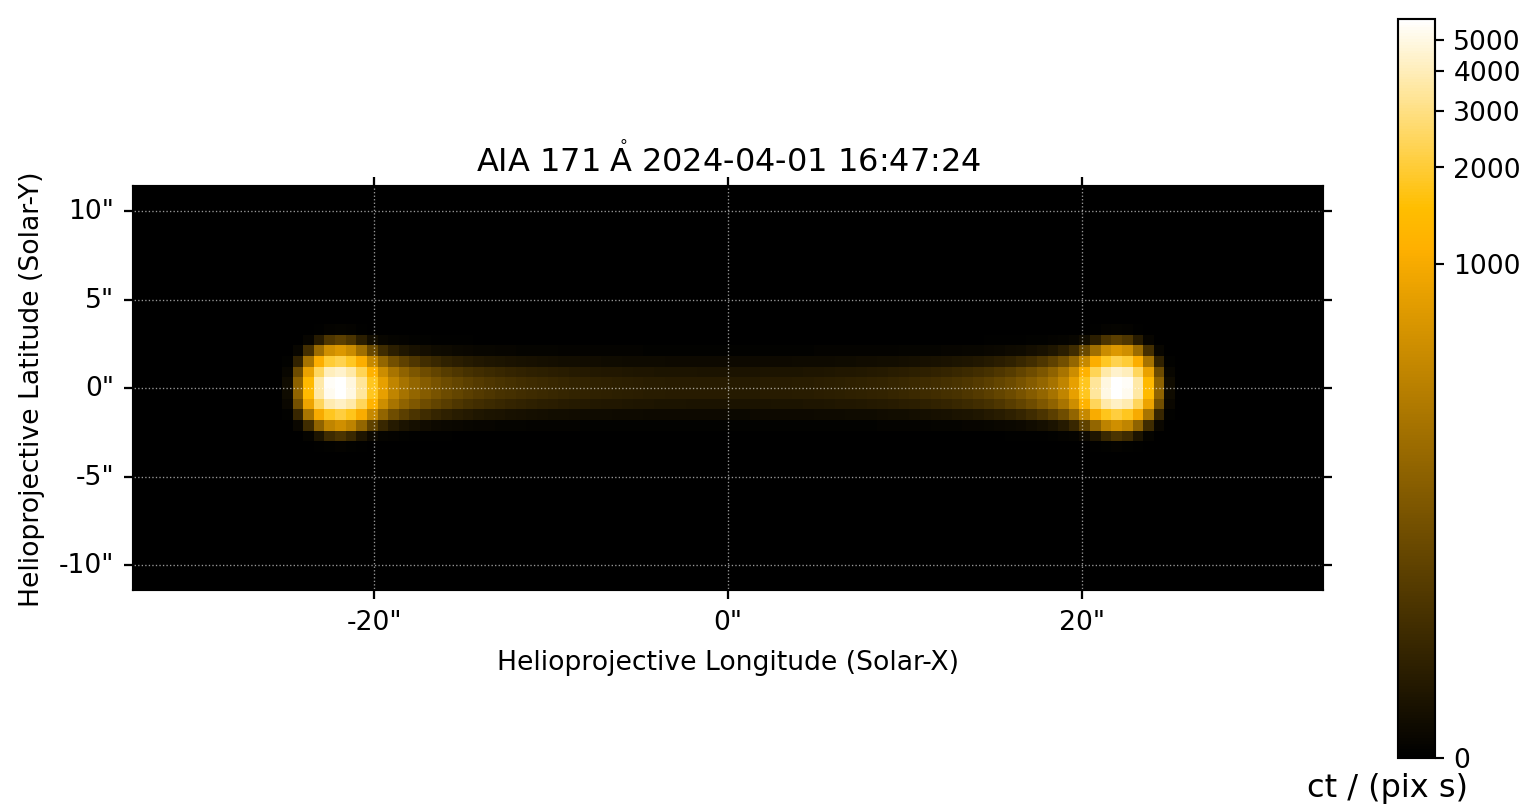
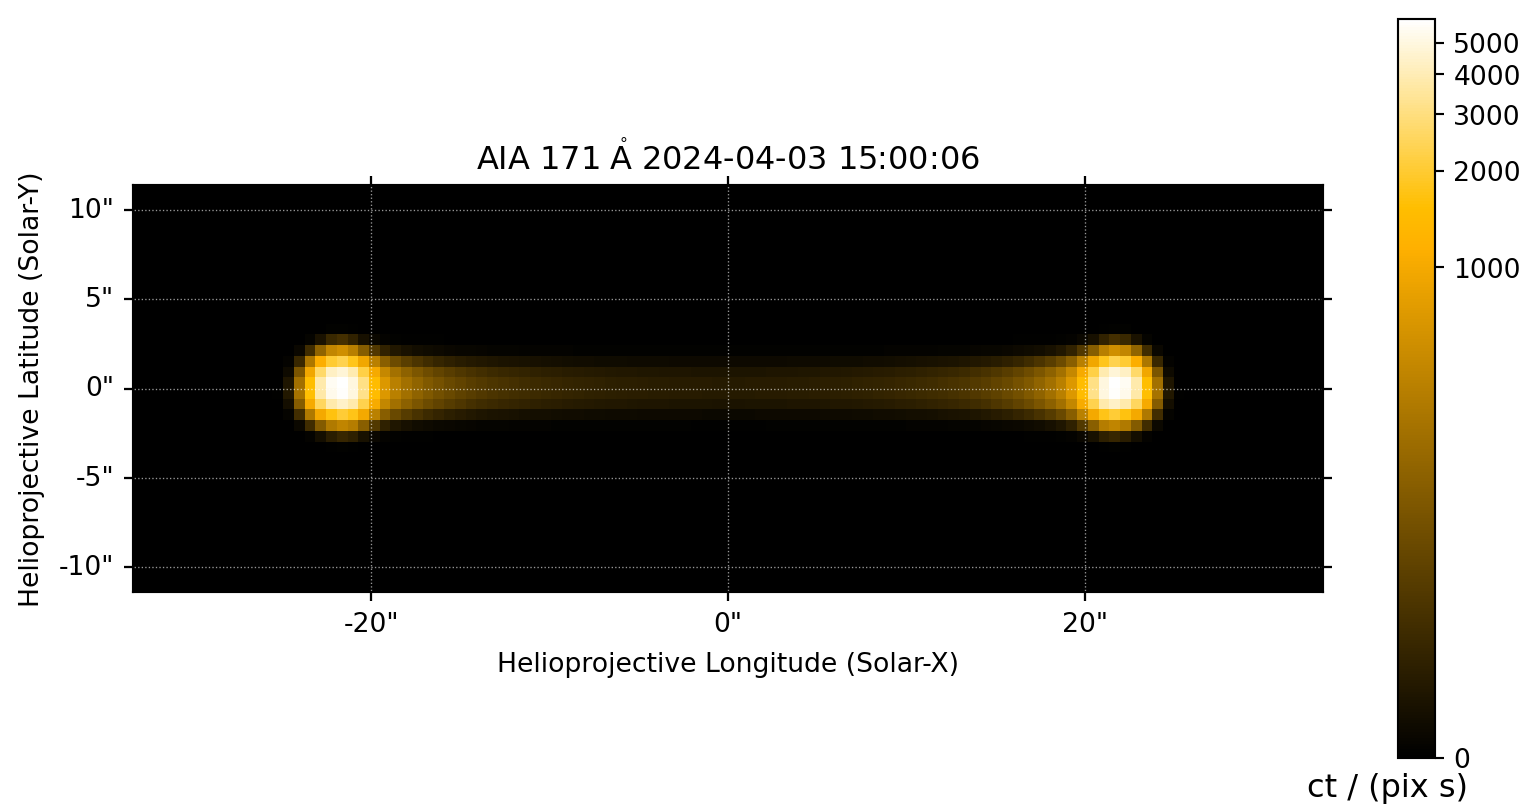
Built site for gh-pages

diff --git a/index.html b/index.html
@@ -483,31 +483,36 @@ I \approx \frac{1}{A_{\mathrm{pix}}}\sum_sA_s\delta_s\varepsilon_s(n,T)
 </section>
 <section id="the-emissivity-kernel" class="slide level2">
 <h2>The Emissivity kernel</h2>
+<div>
 <ul>
-<li>Compute per loop segment using field-aligned model (function of <span class="math inline">\(s\)</span> and <span class="math inline">\(t\)</span>)</li>
-<li>For a narrowband imager (e.g.&nbsp;AIA), <span class="math display">\[
+<li class="fragment">Compute per loop segment using field-aligned model–<span class="math inline">\(T\equiv T(s,t),n\equiv n(s,t)\)</span></li>
+<li class="fragment">For a narrowband imager (e.g.&nbsp;AIA), <span class="math display">\[
 \varepsilon = K(T)n^2\quad[\mathrm{DN}\,\mathrm{pix}^{-1}\,\mathrm{s}^{-1}\,\mathrm{cm}^{-1}]
 \]</span></li>
-<li>For a spectral line intensity with a transition at <span class="math inline">\(\lambda_{ij}\)</span>, <span class="math display">\[
+<li class="fragment">For a spectral line intensity with a transition at <span class="math inline">\(\lambda_{ij}\)</span>, <span class="math display">\[
 \begin{align}
 \varepsilon &amp;= \frac{1}{4\pi}A_{ij}\frac{hc}{\lambda_{ij}}n_{ij}\quad[\mathrm{erg}\,\mathrm{cm}^{-3}\,\mathrm{s}^{-1}\,\mathrm{sr}^{-1}] \\
 &amp;= \frac{1}{4\pi}A_{ij}\frac{hc}{\lambda_{ij}}\frac{n_{ij}}{n_{X^+}}\frac{n_{X^+}}{n_X}\frac{n_X}{n_H}\frac{n_H}{n_e}n_e = \frac{1}{4\pi}G_{ij}(n,T)n_e^2
 \end{align}
 \]</span></li>
-<li>For the emission measure distribution on the interval <span class="math inline">\(T_a\le T&lt;T_b\)</span>, <span class="math display">\[
+<li class="fragment">For the emission measure distribution on the interval <span class="math inline">\(T_a\le T&lt;T_b\)</span>, <span class="math display">\[
 \varepsilon = n^2H(T-T_a)H(T_b-T)\quad[\mathrm{cm}^{-6}]
 \]</span></li>
 </ul>
+</div>
 </section>
 <section id="the-synthesizar-package" class="slide level2">
 <h2>The <code>synthesizAR</code> Package</h2>
 <ul>
 <li><code>synthesizAR</code> = <code>synthesi</code>s of <code>A</code>ctive <code>R</code>egion emission (pronounced like “synthesizer”)</li>
-<li>Largely a product of my PhD–development started in 2016, sporadic since 2019, <em>many</em> growing pains</li>
-<li>Pure Python, leverages scientific Python and “PyAstro” software stack</li>
-<li>Modular design–geometry, field-aligned model, instrument, LOS are all configurable</li>
-<li>Parallelized using <code>dask</code>–emission computation from each loop is “embarassingly” parallel</li>
-<li>Emission model can account for time-dependent effects (e.g.&nbsp;non-equilibrium ionization)</li>
+<li>Combine field-aligned models to produce spatially-resolved, time-dependent forward model</li>
+<li>Strengths:
+<ul>
+<li><strong>Modular</strong>–geometry, field-aligned model, instrument all configurable</li>
+<li><strong>Modern</strong>–pure Python, leverages scientific Python and “PyAstro” software stack</li>
+<li><strong>Efficient</strong>–emissivity from each strand computed in parallel</li>
+<li><strong>Dynamic</strong>–forward-modeled emission is <em>time-dependent</em></li>
+</ul></li>
 <li>Limitations:
 <ul>
 <li>All emission is assumed to be <strong>optically-thin</strong></li>
@@ -516,6 +521,9 @@ I \approx \frac{1}{A_{\mathrm{pix}}}\sum_sA_s\delta_s\varepsilon_s(n,T)
 </ul></li>
 </ul>
 
+<div class="footer">
+<p><a href="https://github.com/wtbarnes/synthesizar">github.com/wtbarnes/synthesizAR</a> / <a href="https://synthesizar.readthedocs.io">synthesizAR.readthedocs.io</a></p>
+</div>
 <aside><div>
 <p>More details in <span class="citation" data-cites="barnes_understanding_2019">Barnes et al. (<a href="#/references" role="doc-biblioref" onclick="">2019</a>)</span></p>
 </div></aside></section>
@@ -534,10 +542,10 @@ I \approx \frac{1}{A_{\mathrm{pix}}}\sum_sA_s\delta_s\varepsilon_s(n,T)
 </div>
 <div class="cell fragment" data-execution_count="3">
 <div class="cell-output cell-output-stdout">
-<pre><code>&lt;SkyCoord (Heliocentric: obstime=2024-04-01 16:47:24.816621, observer=&lt;HeliographicStonyhurst Coordinate (obstime=2024-04-01 16:47:24.816621, rsun=695700.0 km): (lon, lat, radius) in (deg, deg, AU)
+<pre><code>&lt;SkyCoord (Heliocentric: obstime=2024-04-03 15:00:06.033637, observer=&lt;HeliographicStonyhurst Coordinate (obstime=2024-04-03 15:00:06.033637, rsun=695700.0 km): (lon, lat, radius) in (deg, deg, AU)
     (0., 0., 1.)&gt;): (x, y, z) in Mm
-    [(-15.53365488, 0.47993214, 695.7       ),
-     (-15.53357808, 0.47993214, 695.74884918)]&gt;</code></pre>
+    [(-15.5242241 , 0.60396071, 695.7       ),
+     (-15.52414734, 0.60396071, 695.74881953)]&gt;</code></pre>
 </div>
 </div>
 <div class="cell" data-execution_count="4">
@@ -569,10 +577,10 @@ I \approx \frac{1}{A_{\mathrm{pix}}}\sum_sA_s\delta_s\varepsilon_s(n,T)
 </div>
 <div class="cell fragment" data-execution_count="5">
 <div class="cell-output cell-output-stdout">
-<pre><code>[2658085.23570705 2658085.23570705 2658085.23570705 2658085.23570705
- 2658085.23570705] K
-[1.71438439e+09 1.71438439e+09 1.71438439e+09 1.71438439e+09
- 1.71438439e+09] 1 / cm3</code></pre>
+<pre><code>[2657162.95812339 2657162.95812339 2657162.95812339 2657162.95812339
+ 2657162.95812339] K
+[1.71423566e+09 1.71423566e+09 1.71423566e+09 1.71423566e+09
+ 1.71423566e+09] 1 / cm3</code></pre>
 </div>
 </div>
 <div class="cell" data-execution_count="6">
@@ -584,7 +592,7 @@ I \approx \frac{1}{A_{\mathrm{pix}}}\sum_sA_s\delta_s\varepsilon_s(n,T)
 <div class="cell-output cell-output-display">
 <div class="quarto-figure quarto-figure-center">
 <figure>
-<p><img data-src="slides_files/figure-revealjs/cell-7-output-1.png" width="724" height="454"></p>
+<p><img data-src="slides_files/figure-revealjs/cell-7-output-1.png" width="732" height="454"></p>
 </figure>
 </div>
 </div>
@@ -650,7 +658,7 @@ I \approx \frac{1}{A_{\mathrm{pix}}}\sum_sA_s\delta_s\varepsilon_s(n,T)
 <div class="cell-output cell-output-display">
 <div class="quarto-figure quarto-figure-center">
 <figure>
-<p><img data-src="slides_files/figure-revealjs/cell-8-output-1.png" width="753" height="404"></p>
+<p><img data-src="slides_files/figure-revealjs/cell-8-output-1.png" width="753" height="408"></p>
 </figure>
 </div>
 </div>
@@ -662,7 +670,7 @@ I \approx \frac{1}{A_{\mathrm{pix}}}\sum_sA_s\delta_s\varepsilon_s(n,T)
 <div class="cell-output cell-output-display">
 <div class="quarto-figure quarto-figure-center">
 <figure>
-<p><img data-src="slides_files/figure-revealjs/cell-9-output-1.png" width="820" height="337"></p>
+<p><img data-src="slides_files/figure-revealjs/cell-9-output-1.png" width="820" height="339"></p>
 </figure>
 </div>
 </div>
@@ -715,7 +723,7 @@ I \approx \frac{1}{A_{\mathrm{pix}}}\sum_sA_s\delta_s\varepsilon_s(n,T)
 \end{align}
 \]</span>
 <ul>
-<li>For uninterrupted radiative and enthalpy-driven cooling, <span class="math inline">\(a\sim2--2.5\)</span></li>
+<li>For uninterrupted radiative and enthalpy-driven cooling, <span class="math inline">\(2\lesssim a\lesssim2.5\)</span></li>
 <li>As heating frequency increases, <span class="math inline">\(a\)</span> increases with more isothermal <span class="math inline">\(\mathrm{EM}\)</span></li>
 </ul></li>
 <li>Time lag <span class="math inline">\(\tau_{AB}\)</span> between AIA channels <span class="math inline">\(A\)</span> and <span class="math inline">\(B\)</span> <span class="math display">\[
@@ -739,11 +747,41 @@ I \approx \frac{1}{A_{\mathrm{pix}}}\sum_sA_s\delta_s\varepsilon_s(n,T)
 <p><img data-src="static/barnes_2019_em_slope.png"></p>
 <p><img data-src="static/barnes_2019_em_dist.png" class="fragment"></p>
 <p><img data-src="static/barnes_2019_time_lag.png" class="fragment"></p>
-<p><img data-src="static/barnes_2021_heating_class.png" class="fragment"></p>
 </div>
 
 <aside><div>
-<p>See <span class="citation" data-cites="barnes_understanding_2019">Barnes et al. (<a href="#/references" role="doc-biblioref" onclick="">2019</a>)</span>,<span class="citation" data-cites="barnes_understanding_2021">Barnes et al. (<a href="#/references" role="doc-biblioref" onclick="">2021</a>)</span></p>
+<p>See <span class="citation" data-cites="barnes_understanding_2019">Barnes et al. (<a href="#/references" role="doc-biblioref" onclick="">2019</a>)</span></p>
+</div></aside></section>
+<section id="application-active-region-heating-diagnostics-3" class="slide level2">
+<h2>Application: Active Region Heating Diagnostics</h2>
+<div class="r-stack">
+<img data-src="static/observed-aia-emission.png" class="r-stretch">
+</div>
+
+<aside><div>
+<p>See <span class="citation" data-cites="barnes_understanding_2021">Barnes et al. (<a href="#/references" role="doc-biblioref" onclick="">2021</a>)</span></p>
+</div></aside></section>
+<section id="application-active-region-heating-diagnostics-4" class="slide level2">
+<h2>Application: Active Region Heating Diagnostics</h2>
+<div class="columns">
+<div class="column" style="width:67%;">
+<p><img data-src="static/observed-em-slopes.png"></p>
+</div><div class="column" style="width:33%;">
+<p><img data-src="static/observed-timelags.png" class="fragment"></p>
+</div>
+</div>
+
+<aside><div>
+<p>See <span class="citation" data-cites="barnes_understanding_2021">Barnes et al. (<a href="#/references" role="doc-biblioref" onclick="">2021</a>)</span></p>
+</div></aside></section>
+<section id="application-active-region-heating-diagnostics-5" class="slide level2">
+<h2>Application: Active Region Heating Diagnostics</h2>
+<div class="r-stack">
+<img data-src="static/barnes_2021_heating_class.png" class="r-stretch">
+</div>
+
+<aside><div>
+<p>See <span class="citation" data-cites="barnes_understanding_2021">Barnes et al. (<a href="#/references" role="doc-biblioref" onclick="">2021</a>)</span></p>
 </div></aside></section>
 <section id="application-euv-flare-emission" class="slide level2" data-background-video="http://solar.physics.montana.edu/www/reu/2022/bparker/files/aia_211_dist.mp4" data-background-size="contain" data-background-video-loop="true">
 <h2>Application: EUV Flare Emission</h2>

diff --git a/slides.html b/slides.html
@@ -483,31 +483,36 @@ I \approx \frac{1}{A_{\mathrm{pix}}}\sum_sA_s\delta_s\varepsilon_s(n,T)
 </section>
 <section id="the-emissivity-kernel" class="slide level2">
 <h2>The Emissivity kernel</h2>
+<div>
 <ul>
-<li>Compute per loop segment using field-aligned model (function of <span class="math inline">\(s\)</span> and <span class="math inline">\(t\)</span>)</li>
-<li>For a narrowband imager (e.g.&nbsp;AIA), <span class="math display">\[
+<li class="fragment">Compute per loop segment using field-aligned model–<span class="math inline">\(T\equiv T(s,t),n\equiv n(s,t)\)</span></li>
+<li class="fragment">For a narrowband imager (e.g.&nbsp;AIA), <span class="math display">\[
 \varepsilon = K(T)n^2\quad[\mathrm{DN}\,\mathrm{pix}^{-1}\,\mathrm{s}^{-1}\,\mathrm{cm}^{-1}]
 \]</span></li>
-<li>For a spectral line intensity with a transition at <span class="math inline">\(\lambda_{ij}\)</span>, <span class="math display">\[
+<li class="fragment">For a spectral line intensity with a transition at <span class="math inline">\(\lambda_{ij}\)</span>, <span class="math display">\[
 \begin{align}
 \varepsilon &amp;= \frac{1}{4\pi}A_{ij}\frac{hc}{\lambda_{ij}}n_{ij}\quad[\mathrm{erg}\,\mathrm{cm}^{-3}\,\mathrm{s}^{-1}\,\mathrm{sr}^{-1}] \\
 &amp;= \frac{1}{4\pi}A_{ij}\frac{hc}{\lambda_{ij}}\frac{n_{ij}}{n_{X^+}}\frac{n_{X^+}}{n_X}\frac{n_X}{n_H}\frac{n_H}{n_e}n_e = \frac{1}{4\pi}G_{ij}(n,T)n_e^2
 \end{align}
 \]</span></li>
-<li>For the emission measure distribution on the interval <span class="math inline">\(T_a\le T&lt;T_b\)</span>, <span class="math display">\[
+<li class="fragment">For the emission measure distribution on the interval <span class="math inline">\(T_a\le T&lt;T_b\)</span>, <span class="math display">\[
 \varepsilon = n^2H(T-T_a)H(T_b-T)\quad[\mathrm{cm}^{-6}]
 \]</span></li>
 </ul>
+</div>
 </section>
 <section id="the-synthesizar-package" class="slide level2">
 <h2>The <code>synthesizAR</code> Package</h2>
 <ul>
 <li><code>synthesizAR</code> = <code>synthesi</code>s of <code>A</code>ctive <code>R</code>egion emission (pronounced like “synthesizer”)</li>
-<li>Largely a product of my PhD–development started in 2016, sporadic since 2019, <em>many</em> growing pains</li>
-<li>Pure Python, leverages scientific Python and “PyAstro” software stack</li>
-<li>Modular design–geometry, field-aligned model, instrument, LOS are all configurable</li>
-<li>Parallelized using <code>dask</code>–emission computation from each loop is “embarassingly” parallel</li>
-<li>Emission model can account for time-dependent effects (e.g.&nbsp;non-equilibrium ionization)</li>
+<li>Combine field-aligned models to produce spatially-resolved, time-dependent forward model</li>
+<li>Strengths:
+<ul>
+<li><strong>Modular</strong>–geometry, field-aligned model, instrument all configurable</li>
+<li><strong>Modern</strong>–pure Python, leverages scientific Python and “PyAstro” software stack</li>
+<li><strong>Efficient</strong>–emissivity from each strand computed in parallel</li>
+<li><strong>Dynamic</strong>–forward-modeled emission is <em>time-dependent</em></li>
+</ul></li>
 <li>Limitations:
 <ul>
 <li>All emission is assumed to be <strong>optically-thin</strong></li>
@@ -516,6 +521,9 @@ I \approx \frac{1}{A_{\mathrm{pix}}}\sum_sA_s\delta_s\varepsilon_s(n,T)
 </ul></li>
 </ul>
 
+<div class="footer">
+<p><a href="https://github.com/wtbarnes/synthesizar">github.com/wtbarnes/synthesizAR</a> / <a href="https://synthesizar.readthedocs.io">synthesizAR.readthedocs.io</a></p>
+</div>
 <aside><div>
 <p>More details in <span class="citation" data-cites="barnes_understanding_2019">Barnes et al. (<a href="#/references" role="doc-biblioref" onclick="">2019</a>)</span></p>
 </div></aside></section>
@@ -534,10 +542,10 @@ I \approx \frac{1}{A_{\mathrm{pix}}}\sum_sA_s\delta_s\varepsilon_s(n,T)
 </div>
 <div class="cell fragment" data-execution_count="3">
 <div class="cell-output cell-output-stdout">
-<pre><code>&lt;SkyCoord (Heliocentric: obstime=2024-04-01 16:47:24.816621, observer=&lt;HeliographicStonyhurst Coordinate (obstime=2024-04-01 16:47:24.816621, rsun=695700.0 km): (lon, lat, radius) in (deg, deg, AU)
+<pre><code>&lt;SkyCoord (Heliocentric: obstime=2024-04-03 15:00:06.033637, observer=&lt;HeliographicStonyhurst Coordinate (obstime=2024-04-03 15:00:06.033637, rsun=695700.0 km): (lon, lat, radius) in (deg, deg, AU)
     (0., 0., 1.)&gt;): (x, y, z) in Mm
-    [(-15.53365488, 0.47993214, 695.7       ),
-     (-15.53357808, 0.47993214, 695.74884918)]&gt;</code></pre>
+    [(-15.5242241 , 0.60396071, 695.7       ),
+     (-15.52414734, 0.60396071, 695.74881953)]&gt;</code></pre>
 </div>
 </div>
 <div class="cell" data-execution_count="4">
@@ -569,10 +577,10 @@ I \approx \frac{1}{A_{\mathrm{pix}}}\sum_sA_s\delta_s\varepsilon_s(n,T)
 </div>
 <div class="cell fragment" data-execution_count="5">
 <div class="cell-output cell-output-stdout">
-<pre><code>[2658085.23570705 2658085.23570705 2658085.23570705 2658085.23570705
- 2658085.23570705] K
-[1.71438439e+09 1.71438439e+09 1.71438439e+09 1.71438439e+09
- 1.71438439e+09] 1 / cm3</code></pre>
+<pre><code>[2657162.95812339 2657162.95812339 2657162.95812339 2657162.95812339
+ 2657162.95812339] K
+[1.71423566e+09 1.71423566e+09 1.71423566e+09 1.71423566e+09
+ 1.71423566e+09] 1 / cm3</code></pre>
 </div>
 </div>
 <div class="cell" data-execution_count="6">
@@ -584,7 +592,7 @@ I \approx \frac{1}{A_{\mathrm{pix}}}\sum_sA_s\delta_s\varepsilon_s(n,T)
 <div class="cell-output cell-output-display">
 <div class="quarto-figure quarto-figure-center">
 <figure>
-<p><img data-src="slides_files/figure-revealjs/cell-7-output-1.png" width="724" height="454"></p>
+<p><img data-src="slides_files/figure-revealjs/cell-7-output-1.png" width="732" height="454"></p>
 </figure>
 </div>
 </div>
@@ -650,7 +658,7 @@ I \approx \frac{1}{A_{\mathrm{pix}}}\sum_sA_s\delta_s\varepsilon_s(n,T)
 <div class="cell-output cell-output-display">
 <div class="quarto-figure quarto-figure-center">
 <figure>
-<p><img data-src="slides_files/figure-revealjs/cell-8-output-1.png" width="753" height="404"></p>
+<p><img data-src="slides_files/figure-revealjs/cell-8-output-1.png" width="753" height="408"></p>
 </figure>
 </div>
 </div>
@@ -662,7 +670,7 @@ I \approx \frac{1}{A_{\mathrm{pix}}}\sum_sA_s\delta_s\varepsilon_s(n,T)
 <div class="cell-output cell-output-display">
 <div class="quarto-figure quarto-figure-center">
 <figure>
-<p><img data-src="slides_files/figure-revealjs/cell-9-output-1.png" width="820" height="337"></p>
+<p><img data-src="slides_files/figure-revealjs/cell-9-output-1.png" width="820" height="339"></p>
 </figure>
 </div>
 </div>
@@ -715,7 +723,7 @@ I \approx \frac{1}{A_{\mathrm{pix}}}\sum_sA_s\delta_s\varepsilon_s(n,T)
 \end{align}
 \]</span>
 <ul>
-<li>For uninterrupted radiative and enthalpy-driven cooling, <span class="math inline">\(a\sim2--2.5\)</span></li>
+<li>For uninterrupted radiative and enthalpy-driven cooling, <span class="math inline">\(2\lesssim a\lesssim2.5\)</span></li>
 <li>As heating frequency increases, <span class="math inline">\(a\)</span> increases with more isothermal <span class="math inline">\(\mathrm{EM}\)</span></li>
 </ul></li>
 <li>Time lag <span class="math inline">\(\tau_{AB}\)</span> between AIA channels <span class="math inline">\(A\)</span> and <span class="math inline">\(B\)</span> <span class="math display">\[
@@ -739,11 +747,41 @@ I \approx \frac{1}{A_{\mathrm{pix}}}\sum_sA_s\delta_s\varepsilon_s(n,T)
 <p><img data-src="static/barnes_2019_em_slope.png"></p>
 <p><img data-src="static/barnes_2019_em_dist.png" class="fragment"></p>
 <p><img data-src="static/barnes_2019_time_lag.png" class="fragment"></p>
-<p><img data-src="static/barnes_2021_heating_class.png" class="fragment"></p>
 </div>
 
 <aside><div>
-<p>See <span class="citation" data-cites="barnes_understanding_2019">Barnes et al. (<a href="#/references" role="doc-biblioref" onclick="">2019</a>)</span>,<span class="citation" data-cites="barnes_understanding_2021">Barnes et al. (<a href="#/references" role="doc-biblioref" onclick="">2021</a>)</span></p>
+<p>See <span class="citation" data-cites="barnes_understanding_2019">Barnes et al. (<a href="#/references" role="doc-biblioref" onclick="">2019</a>)</span></p>
+</div></aside></section>
+<section id="application-active-region-heating-diagnostics-3" class="slide level2">
+<h2>Application: Active Region Heating Diagnostics</h2>
+<div class="r-stack">
+<img data-src="static/observed-aia-emission.png" class="r-stretch">
+</div>
+
+<aside><div>
+<p>See <span class="citation" data-cites="barnes_understanding_2021">Barnes et al. (<a href="#/references" role="doc-biblioref" onclick="">2021</a>)</span></p>
+</div></aside></section>
+<section id="application-active-region-heating-diagnostics-4" class="slide level2">
+<h2>Application: Active Region Heating Diagnostics</h2>
+<div class="columns">
+<div class="column" style="width:67%;">
+<p><img data-src="static/observed-em-slopes.png"></p>
+</div><div class="column" style="width:33%;">
+<p><img data-src="static/observed-timelags.png" class="fragment"></p>
+</div>
+</div>
+
+<aside><div>
+<p>See <span class="citation" data-cites="barnes_understanding_2021">Barnes et al. (<a href="#/references" role="doc-biblioref" onclick="">2021</a>)</span></p>
+</div></aside></section>
+<section id="application-active-region-heating-diagnostics-5" class="slide level2">
+<h2>Application: Active Region Heating Diagnostics</h2>
+<div class="r-stack">
+<img data-src="static/barnes_2021_heating_class.png" class="r-stretch">
+</div>
+
+<aside><div>
+<p>See <span class="citation" data-cites="barnes_understanding_2021">Barnes et al. (<a href="#/references" role="doc-biblioref" onclick="">2021</a>)</span></p>
 </div></aside></section>
 <section id="application-euv-flare-emission" class="slide level2" data-background-video="http://solar.physics.montana.edu/www/reu/2022/bparker/files/aia_211_dist.mp4" data-background-size="contain" data-background-video-loop="true">
 <h2>Application: EUV Flare Emission</h2>
